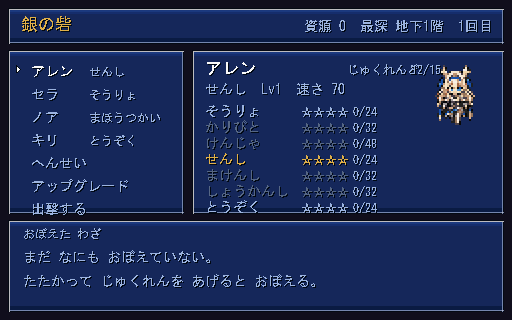
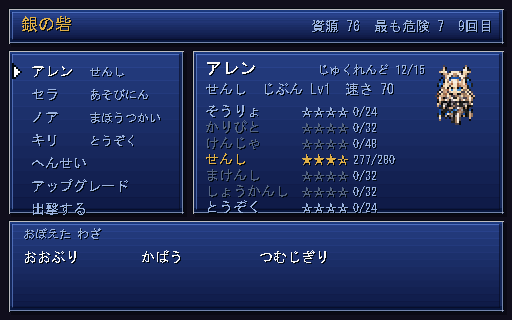
つよさ の重なりと銀の砦のはみ出しを直し、カーソルを大きくする
値をラベルから固定の位置に置いていたので、長いラベル（しょくぎょうの 熟練）が
必ず値と重なっていた。列の右端で揃える形に変え、長い 2 行は 2 列の格子から
出して幅いっぱいの独立した行にした。

銀の砦の「じゅくれんど」も同じ原因。ただしこちらは窓の右端へ寄せると立ち絵の
下に潜るので、揃える先は「隣の絵の左」にする。

選択カーソルを 2 倍で描く。8x8 の等倍は 14px の文字の隣で小さすぎて、どの行を
選んでいるか一目で分からない。整数倍なのでドットは崩れない。寄せ直すのは下へ
だけで、左へ引くと窓の縁を跨ぐ。

「あそびびと」→「あそびにん」。

アップグレードが貧相・中断機能・デバッグ用の状態保存・あそびにんの絵の浮きは
tasks.md に積んだ。

diff --git a/tasks.md b/tasks.md
@@ -13,7 +13,7 @@
 
 ## 進み具合
 
-**済んだこと 105 件 / 残り 3 件。**
+**済んだこと 110 件 / 残り 7 件。**
 
 終わった項目はここから消して `docs/tasks_archive.md` へ移すので、
 このファイルに `[x]` は残らない。**動いているかどうかは下の「直近に済んだこと」で見る。**
@@ -21,13 +21,33 @@
 
 ### 直近に済んだこと
 
-- 撮影の近道が `GameState.world_pos` を当てにしていて空振りした。
-- **イベントが残す効果はすべてラン内資源に置いた**（遭遇率・品数・一時的な力）。
-- **`verify()` に「置いたイベントに歩いて行けるか」を足した。** 届かないイベントは
-- **一覧の 1 行は枠に収まる長さで切る**（`PixelUI.clip`）。全部並べたら溢れた。
-- **必ず立ち去れる。** キャンセルで見送れて、踏み直せばまた開く。
+- 「あそびびと」は誤り。**あそびにん**。
+- **オートは A キーでどの階層からでも切り替える。** コマンド欄の末尾まで下がらないと
+- **選択カーソルは 2 倍で描く。** 8x8 の等倍は 14px の文字の隣で小さすぎて、
+- **右端で揃えるときは「窓の右端」ではなく「隣の絵の左」まで。** 銀の砦の
+- **値をラベルから固定の位置に置くと必ず重なる。** つよさ の「しょくぎょうの 熟練」が
 
 ## 次にやる（効き目の大きい順）
+
+- [ ] **アップグレードが貧相で、あるのと同じになっていない。**
+      いま 4 種（旅支度・手の記憶・商いの伝手・備え）で、どれも「立ち上がりが
+      少し楽」しか起きない。**恒久強化は能力値に触れない**という不変条件を守った
+      結果として、触れる範囲が狭すぎる。能力値以外で効く軸を増やす:
+      解禁（新しい職・新しい品）、選択肢（出撃前に持ち出す物を選ぶ）、
+      情報（世界地図の一部が最初から見える）、保険（1 回だけ全滅を免れる）、
+      拠点の設備（封の在り処が最初から 1 つ分かる）。
+      **数を増やすより、段が進むと質が変わるものを 1 つ入れるほうが効く。**
+- [ ] **中断機能（ラン途中で保存して閉じる）。** いまセーブは拠点の恒久データだけで、
+      世界・位置・封・イベント・物語の進みは保存していない。長い 1 ランを
+      途中で閉じられないのは、ワールド 1 周が 1 ランになった時点で無理がある。
+      `WorldMap` と `GameState` のラン内資源を丸ごと書き出す（決定性があるので
+      種と進行度だけでも復元できる可能性がある。どちらが安いか測ってから決める）。
+- [ ] **デバッグ用の状態保存。** 「この世界のこの場面」を保存して読み直せると、
+      不具合の再現とバランス確認が一気に楽になる。`--dev-save=名前` /
+      `--dev-load=名前` で `user://dev/` へ。中断機能と同じ書き出しを使い回す。
+- [ ] **あそびにんの絵だけ雰囲気が違う。** 他の 14 職と描き方が揃っていない。
+      `HERO_LOOKS`（`tools/gen_assets.py`）の差分か、取り込んだ候補絵のどちらかが
+      浮いている。並べて撮って原因を切り分ける。
 
 - [ ] **検算層が 2 本ある。** `QuestText`（封の名）と `QuestNarrativeText`
       （イベントの表層）が、禁止語・数字・記号の表をそれぞれ持っている。

diff --git a/docs/tasks_archive.md b/docs/tasks_archive.md
@@ -356,3 +356,18 @@
 - 撮影の近道が `GameState.world_pos` を当てにしていて空振りした。
   **場所は渡された引数を見る。** 立っている場所に頼ると、まだそこへ立っていない
   呼び出し（撮影・テスト）で黙って何も起きない。
+
+## 2026-07-30（UI の重なりとはみ出し、オートのキー）
+
+- **値をラベルから固定の位置に置くと必ず重なる。** つよさ の「しょくぎょうの 熟練」が
+  値と衝突していた。**列の右端で揃える**形に変えれば、ラベルの長さが変わっても
+  ぶつからない。長い 2 行は 2 列の格子に入れず、幅いっぱいの独立した行にした。
+- **右端で揃えるときは「窓の右端」ではなく「隣の絵の左」まで。** 銀の砦の
+  「じゅくれんど」を窓の右端へ寄せたら、立ち絵の下に潜った。
+- **選択カーソルは 2 倍で描く。** 8x8 の等倍は 14px の文字の隣で小さすぎて、
+  どの行を選んでいるか一目で分からない。整数倍なのでドットは崩れない。
+  ただし寄せ直すのは**下へだけ**。左へ引くと窓の縁を跨ぐ。
+- **オートは A キーでどの階層からでも切り替える。** コマンド欄の末尾まで下がらないと
+  触れないと、連戦のたびに 6 回下げることになる。止め方も同じキーで対称にした。
+  入口が 2 つでも中身は `_cycle_auto()` 1 つに寄せる。
+- 「あそびびと」は誤り。**あそびにん**。
